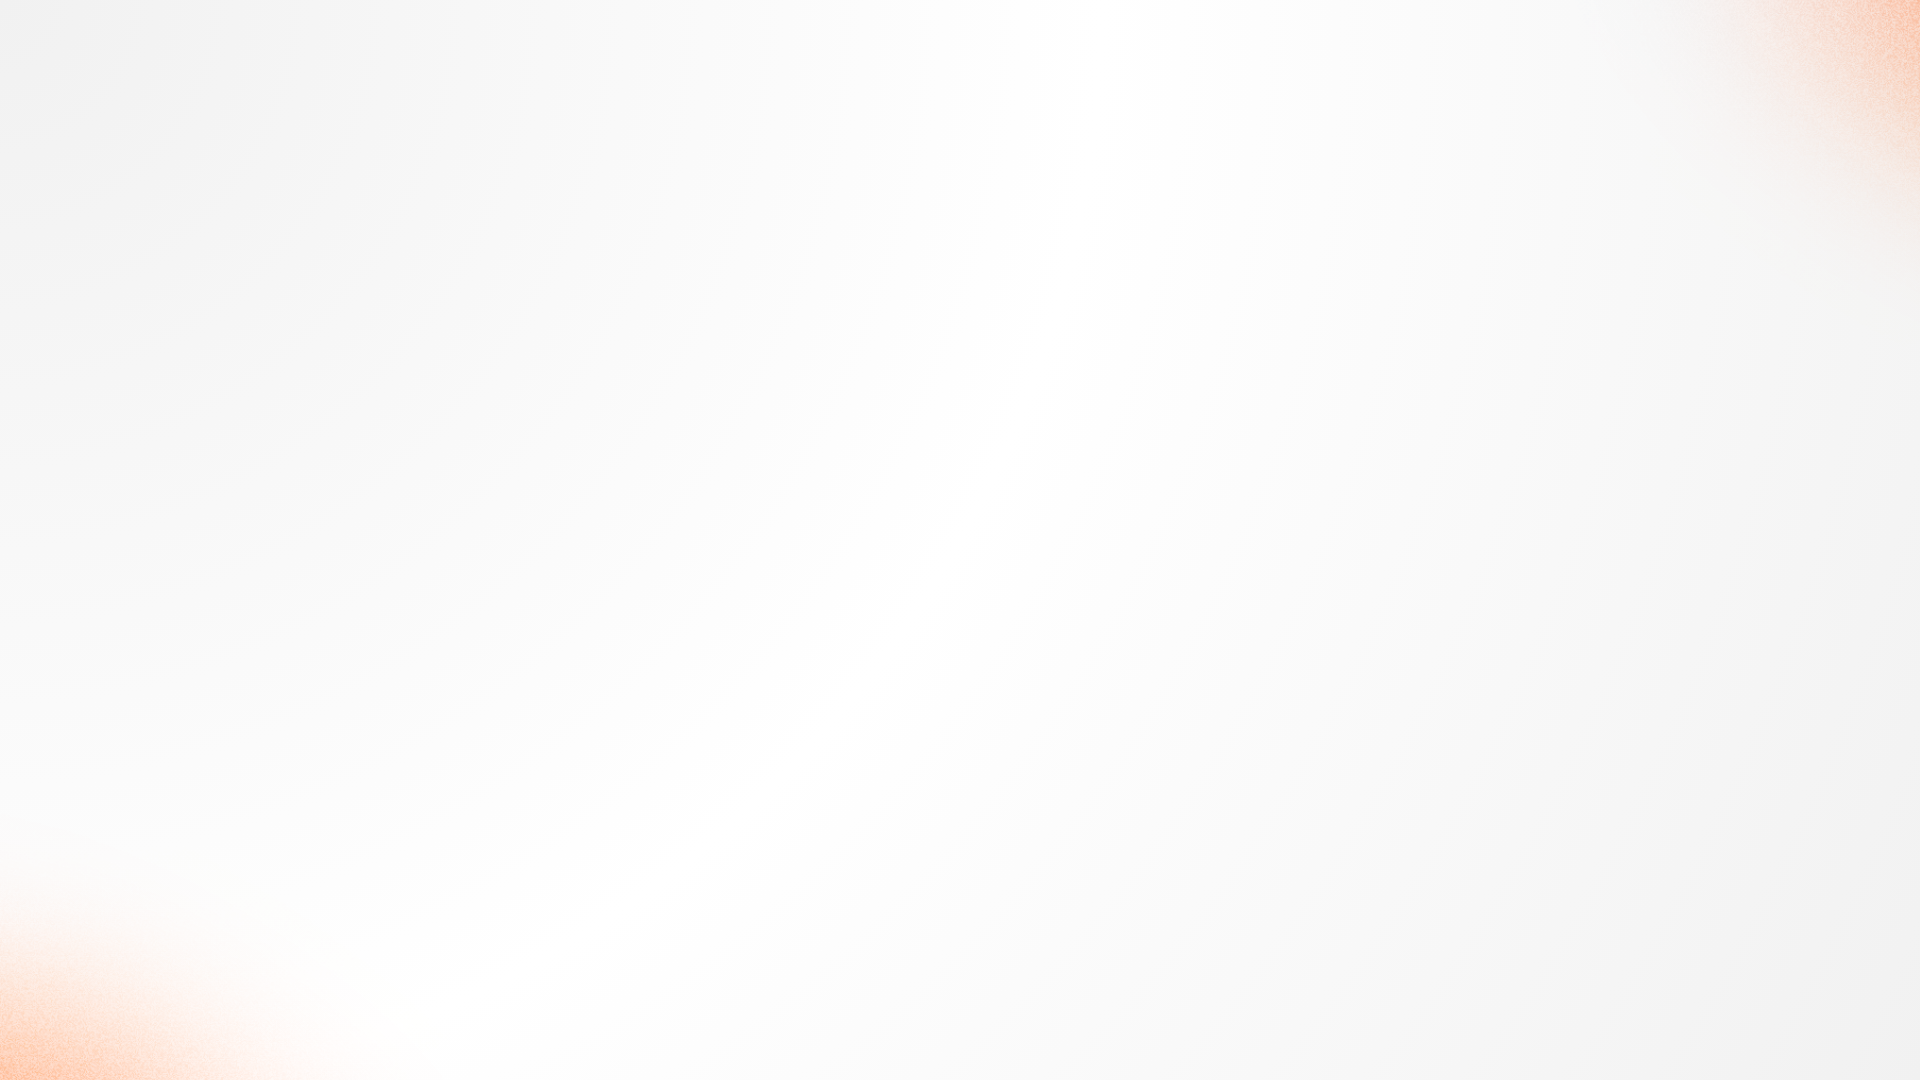
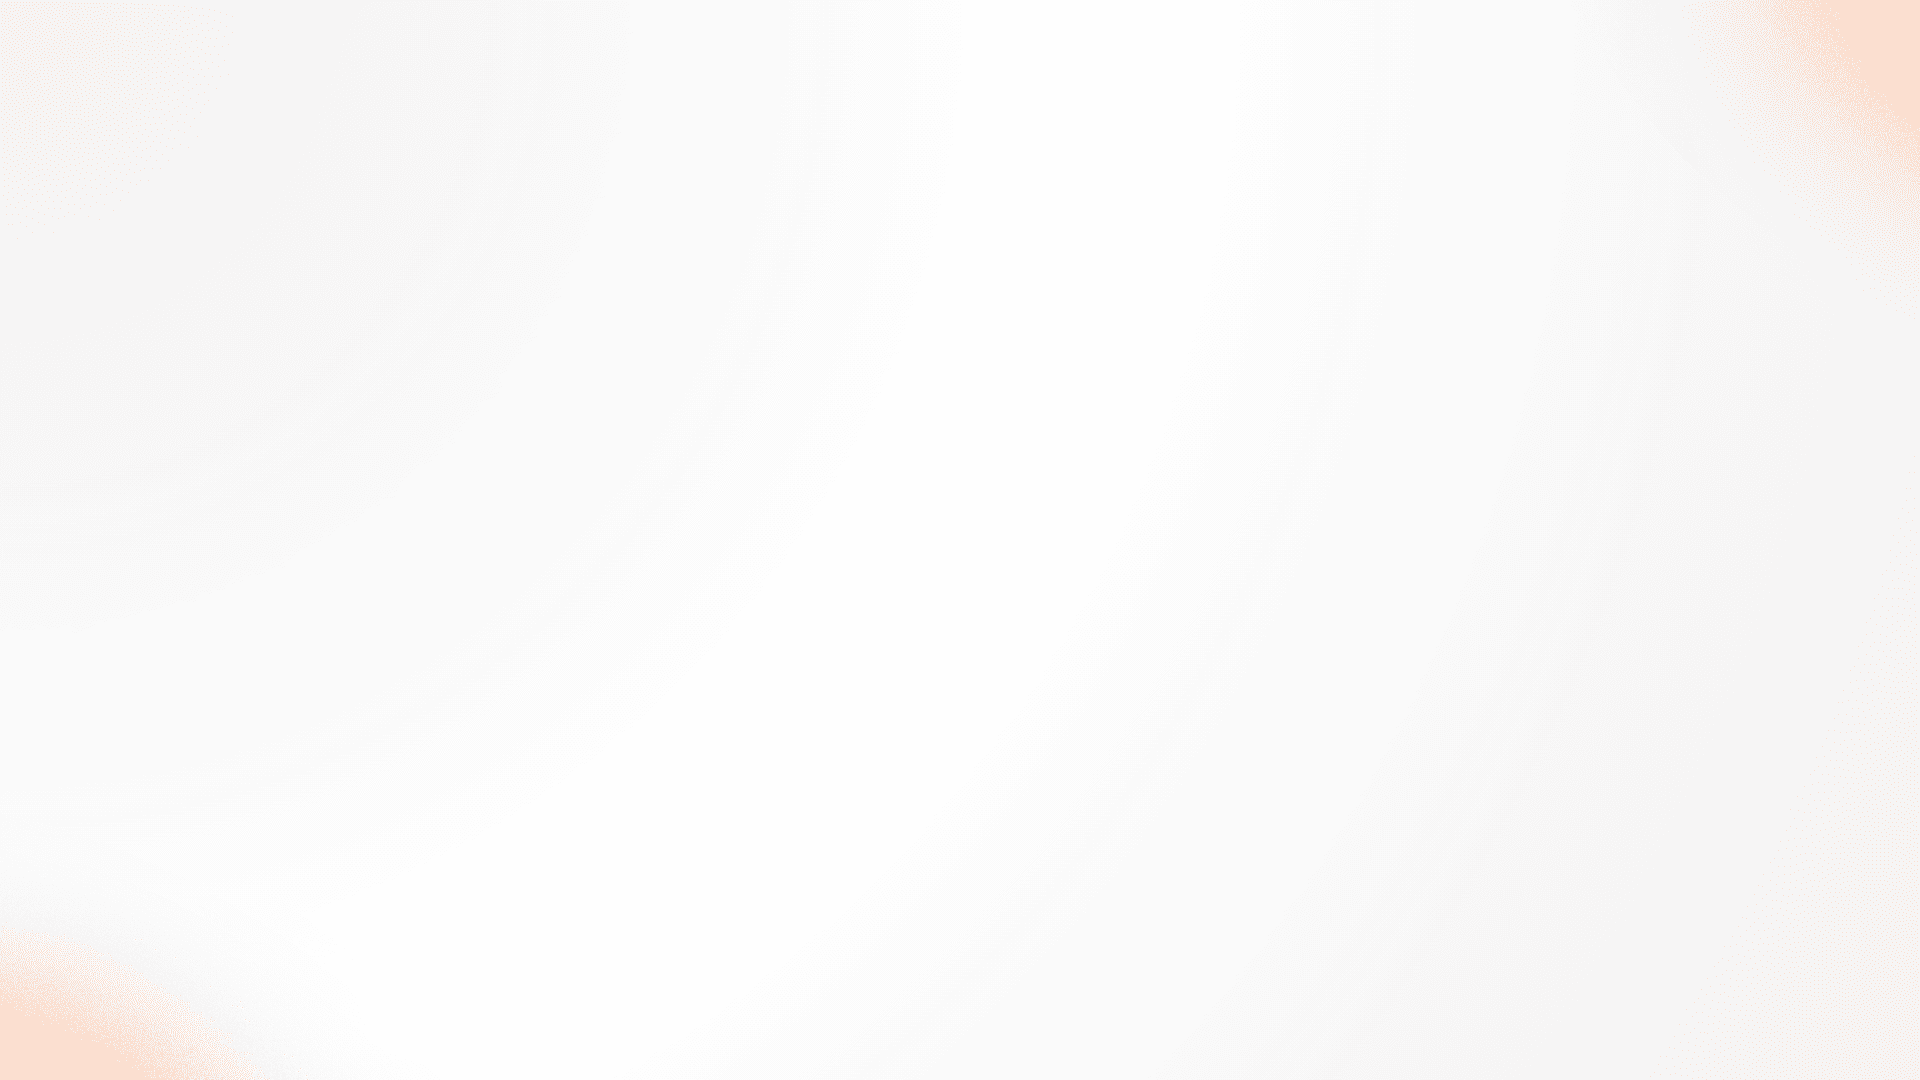
slide: giảm chất lượng ảnh

diff --git a/docs/slide-final/slide_final.md b/docs/slide-final/slide_final.md
@@ -35,6 +35,7 @@ blockquote {
 }
 </style>
 ![bg](bg1.png)
+
 # <span style="font-size: 3em;">Wanderbite</span>
 ## FINAL PRESENTATION
 
@@ -42,6 +43,7 @@ blockquote {
 
 ---
 ![bg](bg2.png)
+
 
 # Mục lục
 
@@ -54,10 +56,12 @@ blockquote {
 ---
 ![bg](bg3.png)
 
+
 # Nhắc lại bài toán
 > Hệ thống gợi ý quán ăn cho khách du lịch, sử dụng AI để hiểu câu tìm kiếm tiếng Việt. Cá nhân hóa kết quả theo người dùng.
 ---
-![bg](bg3.png)
+![bg](bg1.png)
+
 
 # Nhắc lại bài toán
 **Bài toán con**
@@ -65,7 +69,8 @@ blockquote {
 - Gợi ý đa tiêu chí 
 - Xếp hạng thông minh 
 ---
-![bg](bg3.png)
+![bg](bg2.png)
+
 
 # Nhắc lại bài toán
 ## ví dụ
@@ -73,11 +78,12 @@ Người dùng nhập vào thanh tìm kiếm
 > "Hôm nay trời lạnh, thèm ăn món nóng."
 
 ---
+![bg](bg3.png)
 
 
 
 # Nhắc lại bài toán
-![bg](bg1.png)
+
 
 * **Input:**
   - Câu truy vấn người dùng.
@@ -88,14 +94,16 @@ Người dùng nhập vào thanh tìm kiếm
   - Thông tin chi tiết mỗi quán (khoảng cách, điểm đánh giá, danh sách món, giá)
   - Điểm số đánh giá mức độ phù hợp
 ---
+![bg](bg1.png)
 # Nhắc lại bài toán
-![bg](bg3.png)
+
 **Ràng buộc:**
 - Tối thiểu trả về 16 kết quả cho người dùng
 - Tốc độ phản hồi trong khoảng 5 giây
 
 ---
 ![bg](bg2.png)
+
 
 # Luồng xử lí của hệ thống
 1. **Nhận input**: câu văn tiếng Việt, tọa độ GPS, ID người dùng, ngân sách, chế độ tìm kiếm (bình thường hoặc cảm xúc)
@@ -104,7 +112,8 @@ Người dùng nhập vào thanh tìm kiếm
 4. Tạo vector 768 chiều bằng mô hình **vietnamese-bi-encoder**
 
 ---
-![bg](bg2.png)
+![bg](bg3.png)
+
 
 # Luồng xử lí của hệ thống
 5. Kết hợp vector người dùng và vector câu truy vấn (theo tỉ lệ 85% truy vấn hiện tại-15% sở thích người dùng)
@@ -112,7 +121,8 @@ Người dùng nhập vào thanh tìm kiếm
 7. Lọc theo ngân sách (lấy quán có khoảng giá <= ngân sách)
 8. Lọc món chay (nếu truy vấn không chứa từ khóa chay -> loại quán thuần chay)
 ---
-![bg](bg2.png)
+![bg](bg1.png)
+
 
 # Luồng xử lí của hệ thống
 9. Lọc theo tags
@@ -122,6 +132,7 @@ Người dùng nhập vào thanh tìm kiếm
 13. Sắp xếp lại theo khoảng cách cosine tăng dần
 ---
 ![bg](bg2.png)
+
 
 # Luồng xử lí của hệ thống
 14. Gán nhãn cảnh báo dị ứng
@@ -134,21 +145,18 @@ Người dùng nhập vào thanh tìm kiếm
 20. **Output**: trả về top 16 quán đã sắp xếp.
 
 ---
-
-# Flowchart
 ![bg](bg3.png)
-
----
 # Tính năng chính
-![bg](bg2.png)
+
 
 * Tìm kiếm quán ăn
 - Lưu, tạo bộ sưu tập, xem lại lịch sử tìm kiếm
 * Hồ sơ cá nhân 
 - Cảnh báo dị ứng
 ---
-
 ![bg](bg1.png)
+
+
 # Kiểm thử
 
 > Câu truy vấn sau khi làm sạch bằng gemini
@@ -156,14 +164,16 @@ Người dùng nhập vào thanh tìm kiếm
 ![w:1000 center](image-1.png)
 
 ---
-![bg](bg1.png)
+![bg](bg2.png)
+
 # Kiểm thử
 > Thứ tự kết quả khi mô hình xếp hạng lambdaMART bị lỗi
 
 ![alt text](image-2.png)
 
 ---
-![bg](bg1.png)
+![bg](bg3.png)
+
 # Đánh giá - Cải tiến
 ## Đánh giá
 - **Khoảng cách** từ người dùng đến quán ăn đang tính theo đường chim bay.
@@ -171,15 +181,18 @@ Người dùng nhập vào thanh tìm kiếm
 - **Dị ứng** chỉ hỗ trợ 8 loại cố định, không cho phép người dùng tự thêm
 ---
 ![bg](bg1.png)
+
 # Đánh giá - Cải tiến
 ## Cải tiến
 - **Khoảng cách** từ người dùng đến quán ăn theo tuyến đường
 -  Tích hợp cổng **API OpenRouter** để linh hoạt chuyển đổi giữa nhiều mô hình AI 
 - **Dị ứng** cho phép người dùng tự thêm
 ---
+![bg](bg2.png)
 
 # Demo dự án qua video
 
 ---
-![bg](bg1.png)
+![bg](bg3.png)
+
 # Kết thúc
